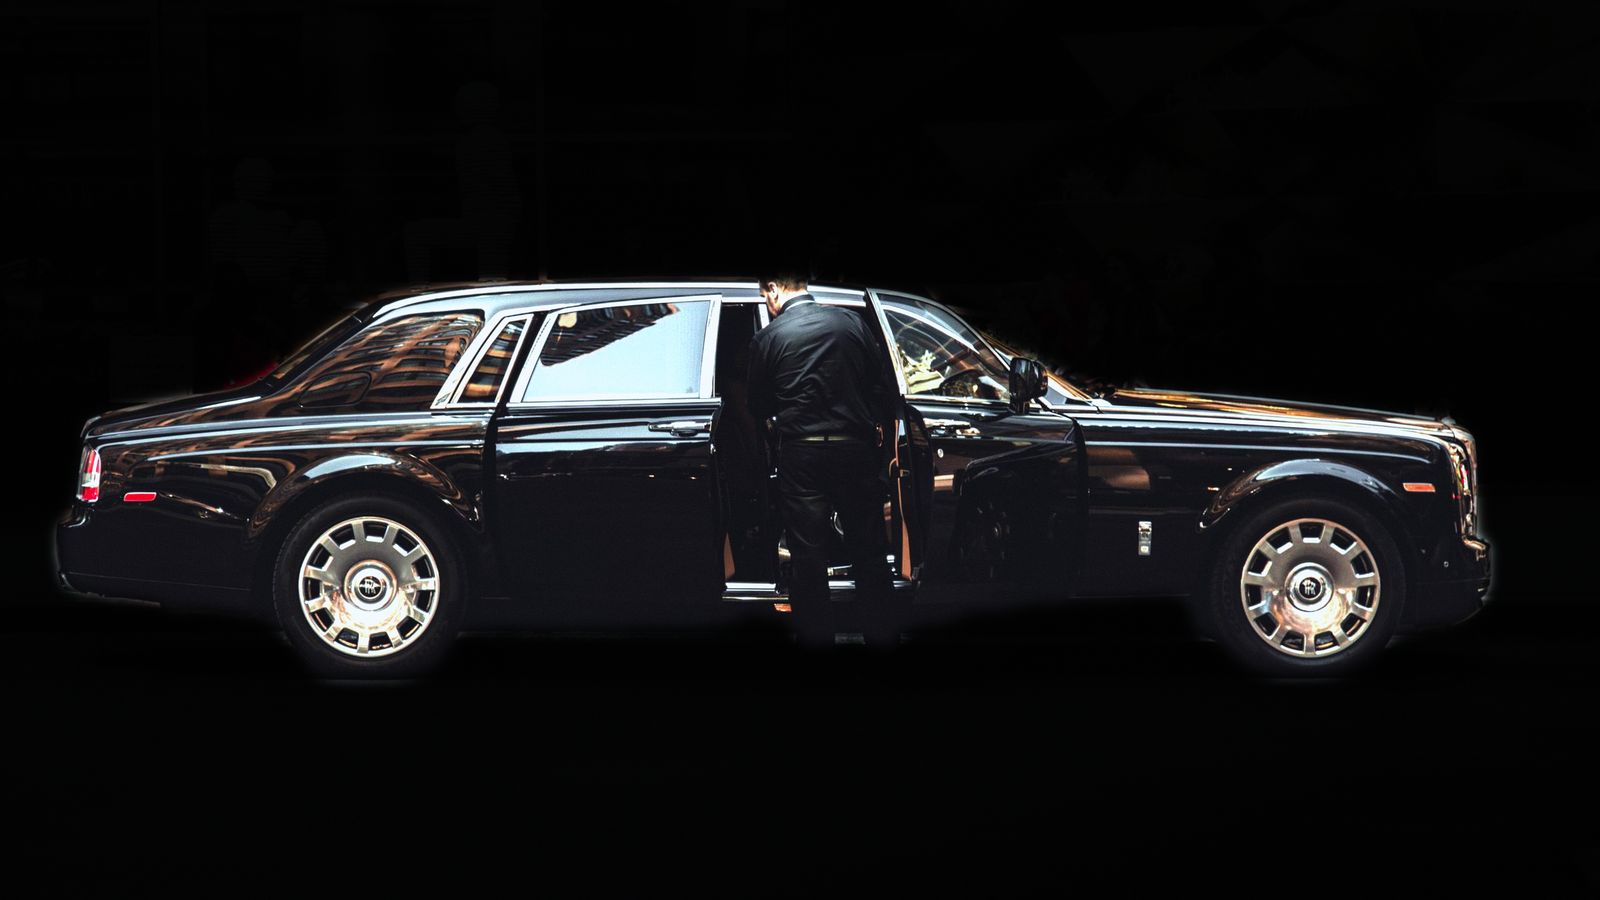
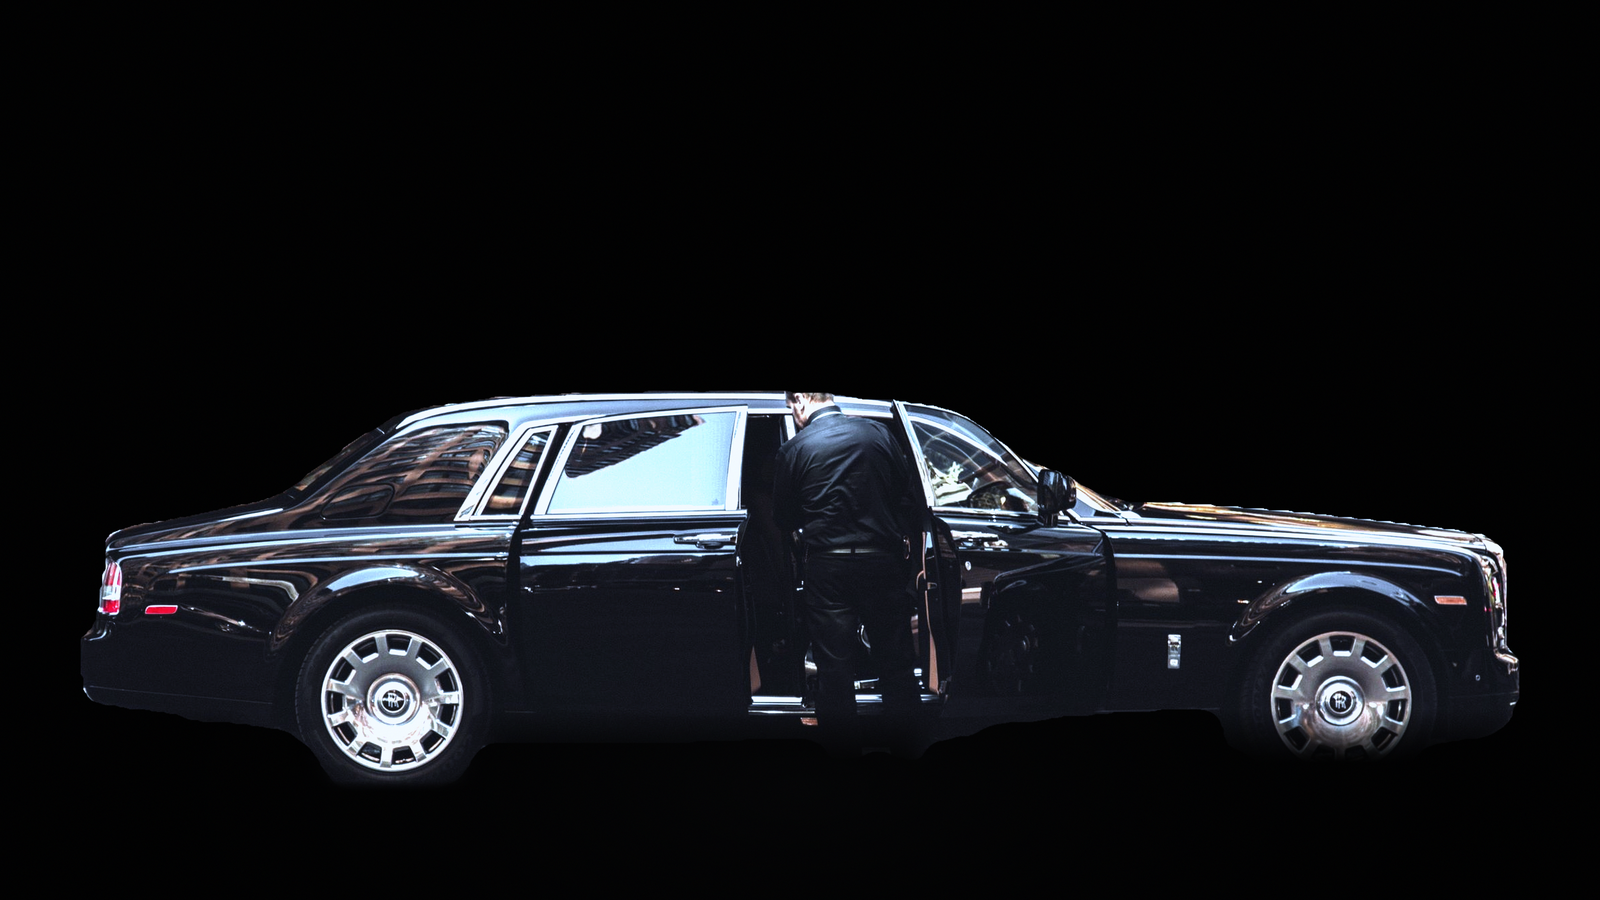
Mobile: contain-fit hero (full car on portrait), aspect-compensated car zoom, seamless additive plate; hero -> Phantom+chauffeur studio float; real description + contact; gold pass on options

Changed region(s): [[0.0312, 0.28, 0.9688, 0.8711]]

diff --git a/index.html b/index.html
@@ -4,7 +4,7 @@
 <meta charset="utf-8">
 <meta name="viewport" content="width=device-width, initial-scale=1">
 <link rel="icon" type="image/svg+xml" href="img/brand/mark.svg">
-<meta name="description" content="Black Hawks Luxury Concierge Services — chauffeured luxury transport for tour operators in Dubai. Range Rover and Cadillac Escalade, chauffeur included.">
+<meta name="description" content="Black Hawks Luxury Concierge Services — chauffeured Range Rover and Cadillac Escalade for tour operators and private clients in Dubai. From the airport barrier to the last door of the night, chauffeur included.">
 <title>Black Hawks — Luxury Concierge Services, Dubai</title>
 <style>
   :root{
@@ -43,8 +43,9 @@
   .beat:nth-child(3){height:150vh}
   .copy{position:sticky;top:14vh;margin-left:var(--safe);
     width:var(--measure-h);max-width:calc(100vw - var(--safe)*2)}
-  /* hero copy lives in the photograph's dead black — upper left, above the roofline */
-  .beat:first-child .copy{top:10vh}
+  /* hero copy lives in the photograph's dead black — upper left, above the
+     roofline. never under the fixed lockup, whatever the viewport height. */
+  .beat:first-child .copy{top:clamp(84px, 11vh, 22vh)}
   .eyebrow{font-family:var(--mono);font-size:11px;line-height:16px;letter-spacing:.16em;
     text-transform:uppercase;color:var(--gold);margin-bottom:24px}
   .d1{font-size:40px;line-height:48px;font-weight:500;letter-spacing:.002em;color:var(--ink)}
@@ -52,7 +53,10 @@
   @media (max-width:760px){
     .d1{font-size:26px;line-height:32px}
     .b1{font-size:16px;line-height:26px;margin-top:16px}
-    .copy{top:58vh}
+    /* the hero plate is a centered 16:9 band on portrait — copy sits under it */
+    .copy{top:67vh}
+    .glass{padding:36px 26px;border-radius:18px}
+    .actions a{font-size:12.5px;letter-spacing:.06em}
   }
 
   /* page three arrives on glass, over the living desert. glossy glass, not
@@ -131,13 +135,17 @@
      scene stays visible and moving behind the panel. -->
 <section id="next">
   <div class="glass">
-    <p class="eyebrow">Next</p>
+    <p class="eyebrow">Enquiries &middot; Dubai</p>
     <h2 class="d1">Send us a day.</h2>
-    <p class="b1">A date, a flight number, a headcount. Range Rover and Cadillac Escalade, chauffeur included.</p>
+    <p class="b1">A date, a flight number, a headcount &mdash; we come back with the car, the
+    chauffeur and one number that answers until the last door closes. Range Rover and
+    Cadillac Escalade, chauffeur included, on the ground in Dubai.</p>
+    <p class="b1">Built for tour operators and travel designers who put their own name on the
+    guest&rsquo;s day. Private itineraries taken when the calendar allows.</p>
     <nav class="actions">
-      <a href="mailto:enquiries@blackhawks.luxury">Email us a day</a>
+      <a href="mailto:enquiries@blackhawks.luxury">enquiries@blackhawks.luxury</a>
     </nav>
-    <p class="note">Content of this page is the next decision &mdash; the glass is the mechanism.</p>
+    <p class="note">Black Hawks Luxury Concierge Services &middot; Dubai, United Arab Emirates</p>
   </div>
 </section>
 
@@ -460,7 +468,7 @@ void main(){
 /* ---------- build ---------- */
 try {
   // the photograph — the realistic world all of this comes from
-  const tex = new THREE.TextureLoader().load('img/hero.png', () => { __status.push('photo-loaded'); wake(); });
+  const tex = new THREE.TextureLoader().load('img/hero.png?v=3', () => { __status.push('photo-loaded'); wake(); });
   tex.colorSpace = THREE.NoColorSpace;   // raw passthrough: the PNG as it looks on disk
   tex.minFilter = THREE.LinearFilter;
   tex.generateMipmaps = false;
@@ -692,7 +700,9 @@ try {
           if (a < 0.004) discard;
           gl_FragColor = vec4(c, a);
         }`,
-      transparent: true, depthWrite: false,
+      // additive: the plate's true-black floor adds NOTHING, so the sheet has
+      // no edges against the ground — the photograph floats, it isn't a card.
+      transparent: true, depthWrite: false, blending: THREE.AdditiveBlending,
     }));
   scene.add(plane);
 
@@ -982,14 +992,22 @@ addEventListener('pointermove', (e) => {
 }, { passive: true });
 
 function fitPlane() {
-  // the photograph fills the hero frame exactly, whatever the viewport
+  // the photograph keeps its OWN aspect — contain, never stretch. the plate is
+  // a studio float on true black, so the letterbox is invisible; on portrait
+  // phones this is what keeps the whole car (and chauffeur) in frame.
   const B = BEATS[0];
   const camPos = new THREE.Vector3(Math.sin(B.az) * Math.cos(B.el) * B.dist,
     Math.sin(B.el) * B.dist + 0.9, Math.cos(B.az) * Math.cos(B.el) * B.dist);
   const C = uni ? uni.uPlaneC.value : new THREE.Vector3(0, 1.06, 3.4);
   const D = camPos.distanceTo(C);
-  const H = 2 * D * Math.tan(THREE.MathUtils.degToRad(18)) * 1.10;
-  const W = H * (innerWidth / innerHeight) * 1.02;
+  const PA = 16 / 9;                       // hero plate aspect
+  const Hv = 2 * D * Math.tan(THREE.MathUtils.degToRad(18));
+  const Wv = Hv * (innerWidth / innerHeight);
+  // portrait: pure contain — the plate composes the car to its full width, so
+  // ANY overscan beheads a bumper. the letterbox is black-on-black, invisible.
+  const over = innerWidth < innerHeight ? 1.0 : 1.10;
+  const W = Math.min(Wv * over, Hv * 1.10 * PA);
+  const H = W / PA;
   if (uni) { uni.uPlaneR.value.set(W, 0, 0); uni.uPlaneU.value.set(0, H, 0); }
   if (plane) { plane.position.copy(C); plane.scale.set(W, H, 1); }
 }
@@ -1037,12 +1055,17 @@ function update(dt, ms) {
   eDragAz += (dragAz - eDragAz) * k(dt, 0.16);
   eDragEl += (dragEl - eDragEl) * k(dt, 0.16);
   const az = lerpN(A.az, B.az, e) + eDragAz, el = Math.max(0.02, lerpN(A.el, B.el, e) + eDragEl);
-  const dist = lerpN(A.dist, B.dist, e), cx = lerpN(A.x, B.x, e);
+  const jou = lerpN(A.jou, B.jou, e), exv = lerpN(A.exit, B.exit, e);
+  // narrow screens: back off until the whole car fits the horizontal field.
+  // comp=1 on desktop; ~2 on a portrait phone. blended in with the journey so
+  // the photograph beat (which has its own contain-fit) never moves.
+  const tanH = Math.tan(THREE.MathUtils.degToRad(18)) * camera.aspect;
+  const comp = Math.min(2.6, Math.max(1, (3.15 / tanH) / 10.6));
+  const dist = lerpN(A.dist, B.dist, e) * (1 + (comp - 1) * jou), cx = lerpN(A.x, B.x, e);
   camera.position.set(cx + Math.sin(az) * Math.cos(el) * dist,
     Math.sin(el) * dist + 0.9, Math.cos(az) * Math.cos(el) * dist);
   camera.lookAt(cx, 0.8, 0);
 
-  const jou = lerpN(A.jou, B.jou, e), exv = lerpN(A.exit, B.exit, e);
   if (uni) {
     uni.uJourney.value = jou;
     uni.uTime.value = ms * 0.001;

diff --git a/options.html b/options.html
@@ -6,6 +6,7 @@
 <title>Hero options — pick a letter</title>
 <style>
   :root{--ground:#08090B;--ink:#EDEAE5;--ink2:#A7A4A0;--ink3:#7C7A76;
+    --gold:#D4AF37;--gold-hi:#F3DE8A;--gold-dim:#9A7B2E;
     --mono:ui-monospace,"SF Mono",Menlo,monospace;
     --body:"Avenir Next",Avenir,-apple-system,system-ui,sans-serif}
   *{box-sizing:border-box;margin:0;padding:0}
@@ -13,16 +14,18 @@
   h1{font-size:26px;font-weight:500;margin-bottom:6px}
   .sub{color:var(--ink2);font-size:14px;margin-bottom:34px;max-width:70ch}
   .grid{display:grid;grid-template-columns:repeat(auto-fill,minmax(430px,1fr));gap:26px}
-  .opt{background:#0D0E11;border:1px solid #1C1D22;border-radius:4px;overflow:hidden}
+  .opt{background:#0D0E11;border:1px solid rgba(212,175,55,.22);border-radius:4px;overflow:hidden}
   .ph{aspect-ratio:16/9;overflow:hidden;background:#000;display:flex;align-items:center;justify-content:center}
   .ph img{width:100%;height:100%;object-fit:cover;filter:brightness(.92) saturate(.9)}
   .meta{padding:16px 18px;display:flex;gap:14px;align-items:baseline}
-  .letter{font-family:var(--mono);font-size:26px;color:#F2A65A}
+  .letter{font-family:var(--mono);font-size:26px;
+    background:linear-gradient(175deg,var(--gold-hi) 8%,var(--gold) 46%,var(--gold-dim) 95%);
+    -webkit-background-clip:text;background-clip:text;color:transparent}
   .meta b{font-weight:600;font-size:14.5px;display:block;margin-bottom:3px}
   .meta p{font-size:12.5px;color:var(--ink2);line-height:1.5}
   .meta .lic{font-family:var(--mono);font-size:9px;letter-spacing:.1em;color:var(--ink3);
     text-transform:uppercase;margin-top:6px;display:block}
-  .flag{color:#B08A4E}
+  .flag{color:var(--gold)}
 </style>
 </head>
 <body>
